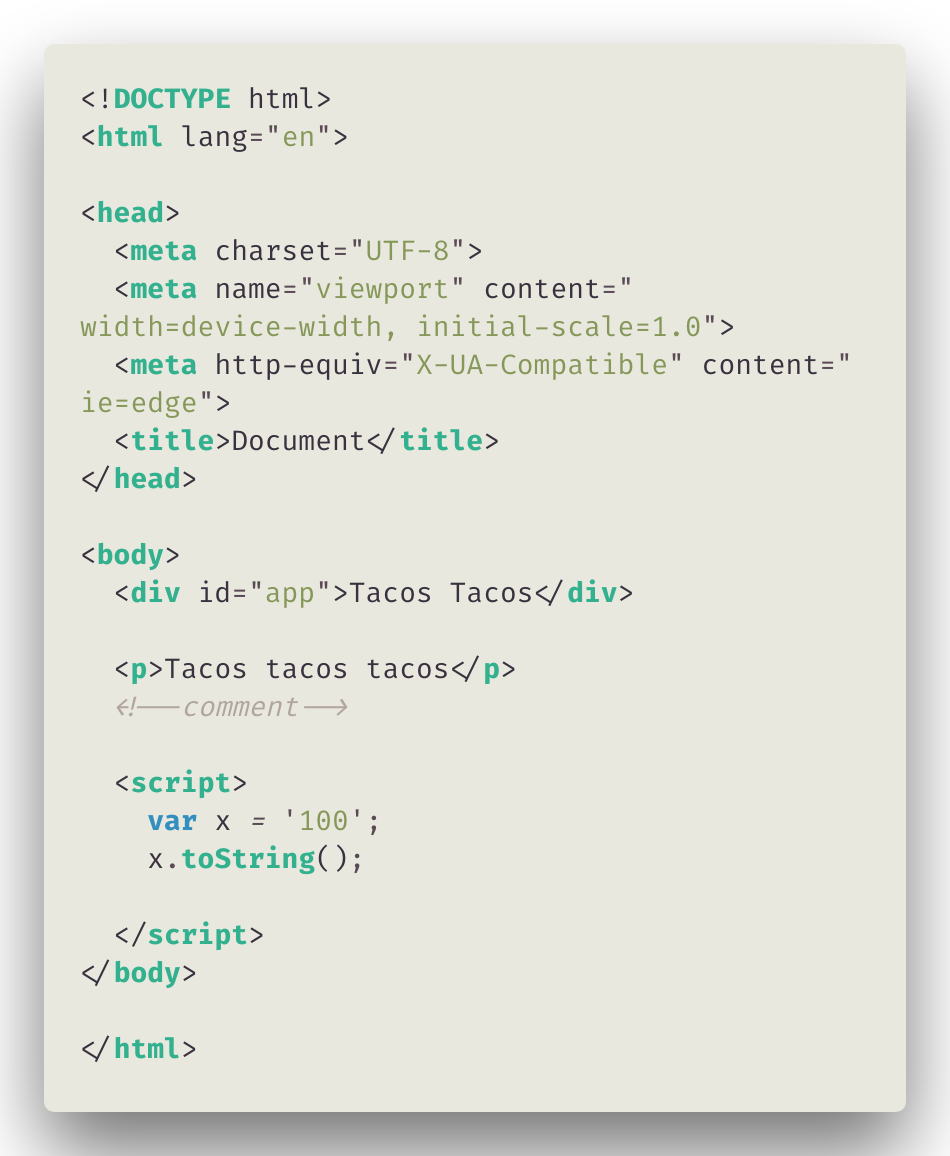
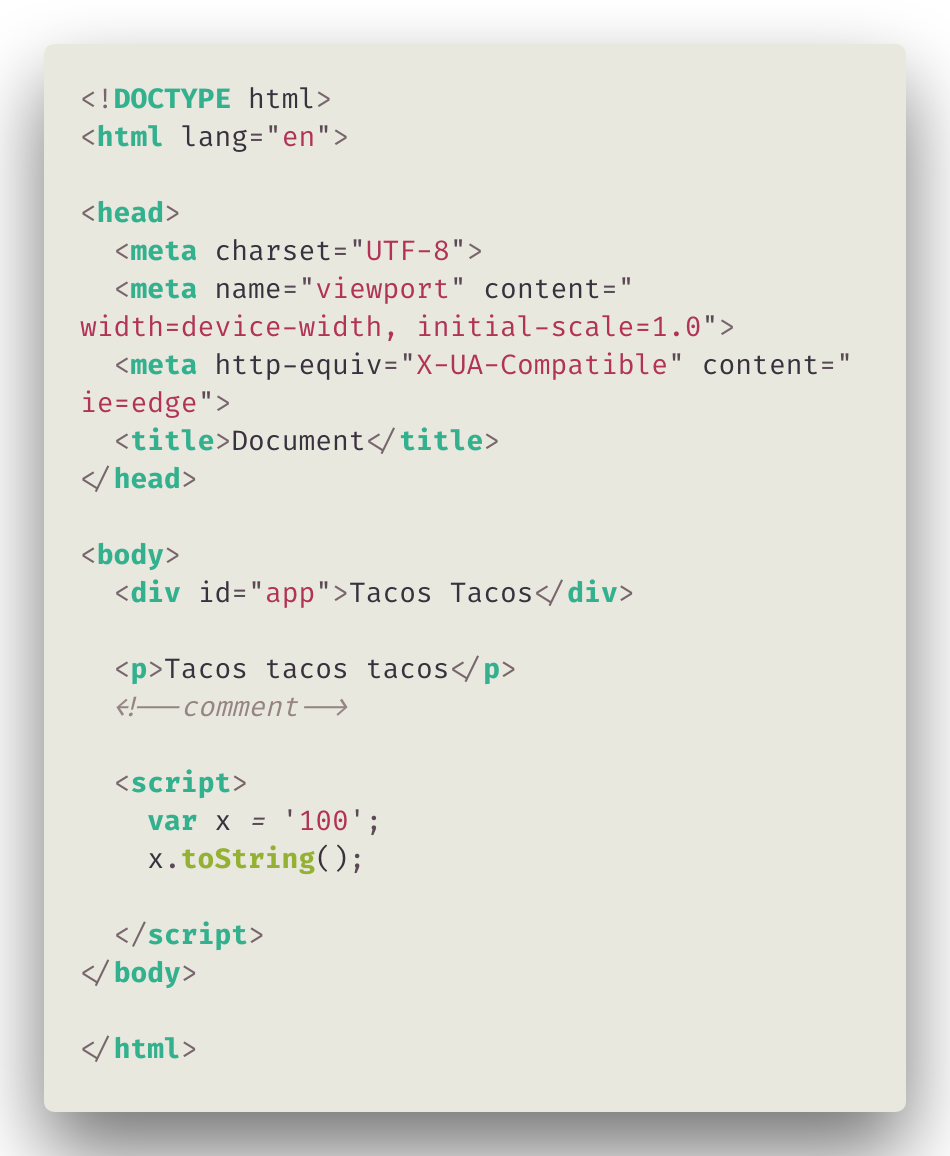
Completes the morning theme. (0.3.0)

diff --git a/README.md b/README.md
@@ -26,14 +26,28 @@ Enjoy :grin:
 
 #### CSS
 
+![Chronotype: Morning - CSS](images/syntax/morning-css.png)
+
 #### JavaScript
 
-#### TypeScript
+![Chronotype: Morning - JS](images/syntax/morning-js.png)
 
 #### React
 
+![Chronotype: Morning - React](images/syntax/morning-react.png)
+
 #### Vue
+
+![Chronotype: Morning - Vue](images/syntax/morning-vue.png)
+
+#### Angular
+
+![Chronotype: Morning - Angular](images/syntax/morning-angular.png)
 
 #### PHP
 
+![Chronotype: Morning - PHP](images/syntax/morning-php.png)
+
 #### Ruby
+
+![Chronotype: Morning - Ruby](images/syntax/morning-ruby.png)

diff --git a/CHANGELOG.md b/CHANGELOG.md
@@ -3,7 +3,11 @@
 This is a living record of all the notable changes "chronotype-vscode-theme" incurs during its development and upkeep. If you're unsure about the state of the project, this is the first place to look.
 
 ## [Unreleased]
+
+## [0.3.0]
 - Updates the Change Log
+- Updates syntax highlighting for daytime themes
+- Adds more screenshots of the syntax
 
 ## [0.2.0]
 - Completed the UI for morning theme
